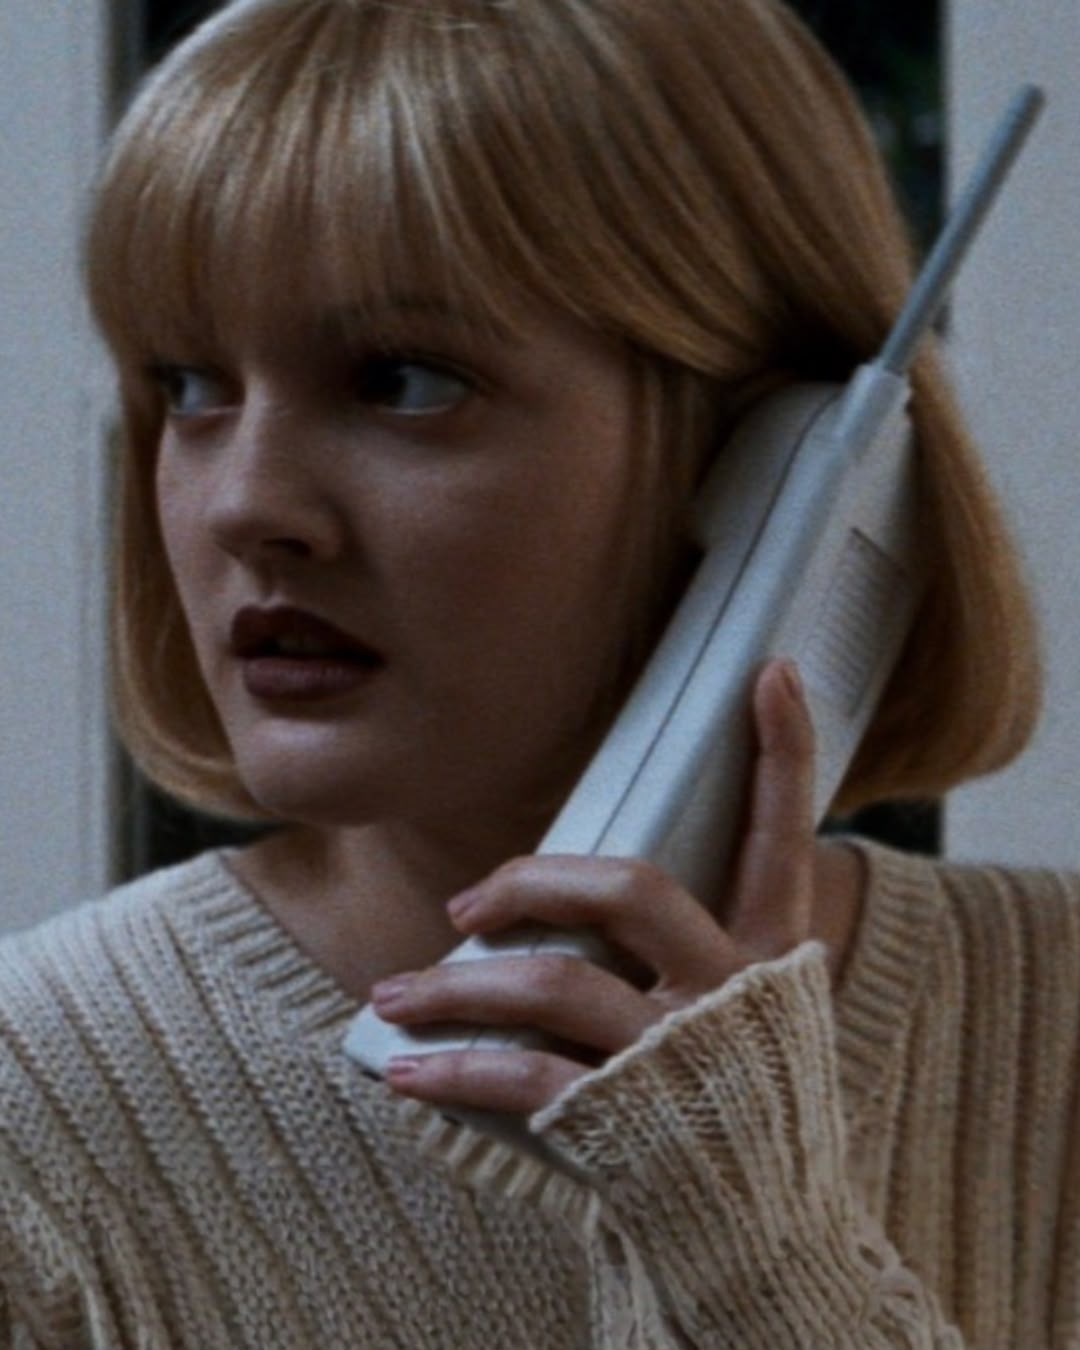
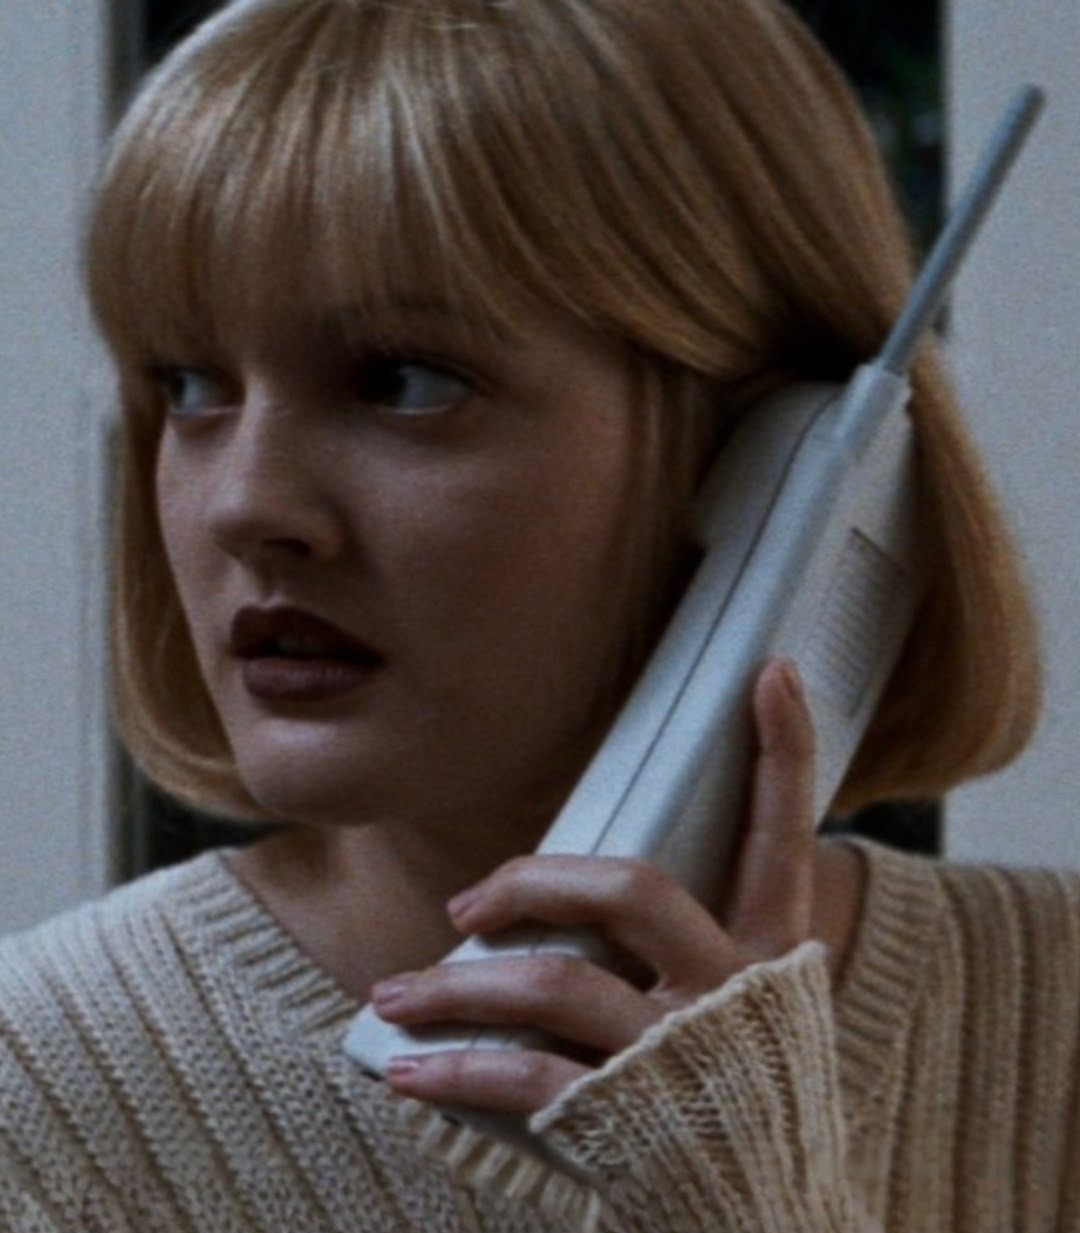
Reduce white space below submit button in contact form card

diff --git a/css/styles.css b/css/styles.css
@@ -1235,7 +1235,7 @@ button, input, textarea {
   border-radius: 20px;
   overflow: hidden;
   display: grid;
-  grid-template-columns: 48% 52%;
+  grid-template-columns: 45% 55%;
   box-shadow: var(--shadow-md);
   border: 1px solid var(--border-color);
 }
@@ -1243,32 +1243,29 @@ button, input, textarea {
 .contact-media-col {
   position: relative;
   width: 100%;
-  background-color: var(--bg-card);
+  height: 100%;
   display: flex;
   flex-direction: column;
-  border-right: 1px solid var(--border-color);
 }
 
 .contact-img {
   width: 100%;
-  height: 320px;
+  height: 240px;
   object-fit: cover;
-  object-position: center 15%;
-  display: block;
 }
 
 .contact-form-col {
-  padding: 3.5rem 3rem;
+  padding: 2.25rem 2.5rem 1.5rem 2.5rem;
   display: flex;
   flex-direction: column;
-  justify-content: center;
+  justify-content: flex-start;
 }
 
 .form-group {
-  margin-bottom: 1.25rem;
+  margin-bottom: 1rem;
   display: flex;
   flex-direction: column;
-  gap: 0.35rem;
+  gap: 0.3rem;
 }
 
 .form-group label {

diff --git a/contatti.html b/contatti.html
@@ -159,7 +159,7 @@
 
               <div class="form-group">
                 <label for="contactMessage">Messaggio <span class="required">*</span></label>
-                <textarea id="contactMessage" name="message" rows="5" class="form-control" required placeholder="Scrivi qui il messaggio dettagliato per la redazione..."></textarea>
+                <textarea id="contactMessage" name="message" rows="4" class="form-control" required placeholder="Scrivi qui il messaggio dettagliato per la redazione..."></textarea>
               </div>
 
               <div class="form-submit-wrapper">
